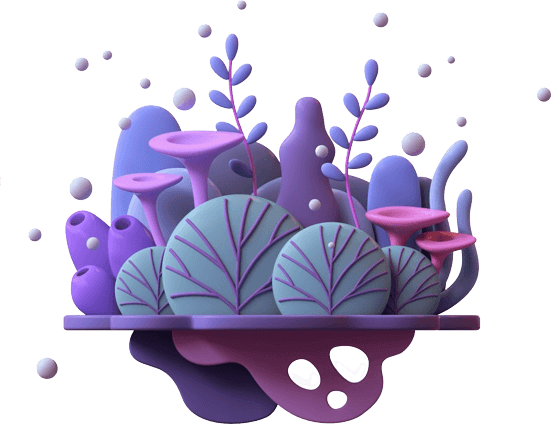
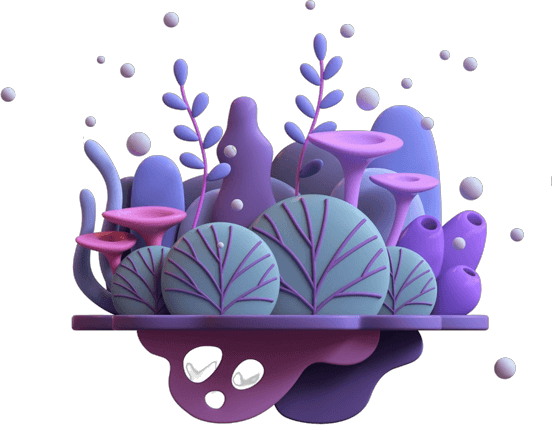
update image home

diff --git a/src/pages/Login.jsx b/src/pages/Login.jsx
@@ -1,14 +1,77 @@
 /* eslint-disable semi */
 /* eslint-disable prettier/prettier */
 import React from 'react';
-import {Text, View } from 'react-native';
+import {View, StyleSheet, SafeAreaView, Text, TouchableOpacity, Image } from 'react-native';
+import LinearGradient from 'react-native-linear-gradient';
 
-const Login = () => {
+const Home = () => {
   return (
-    <View>
-      <Text>Hello Login</Text>
-    </View>
+        <LinearGradient
+         colors={['#285ca3', '#2d5fb0', '#4e69d0' , '#2b5eab']}
+         style={styles.container}
+         start={{ x: 0, y: 0 }}
+         end={{ x: 1, y: 1 }}
+         >
+          <Image source={image.img} style={styles.imgHome}/>
+          <Text style={styles.textHeader}>Plantly</Text>
+          <Text>Can't seem to keep a plant alive?</Text>
+          <Text>Let us help you change that</Text>
+          <LinearGradient 
+          start={{ x: 0, y: 0 }}
+          end={{x: 1, y: 1 }}
+          colors={['#283854', '#2c3f69', '#344a84', '#335498']}
+          style={styles.buttoLogin}>
+            <TouchableOpacity>
+              <Text>LOGIN</Text>
+            </TouchableOpacity>
+          </LinearGradient>
+          <TouchableOpacity style={styles.buttonRegister}>
+            <Text>SIGN UP</Text>
+          </TouchableOpacity>
+        </LinearGradient>
+
   );
 }
-
-export default Login;
+const image = {
+  img : require('../assets/header-home.png')
+}
+const styles = StyleSheet.create({
+  container: {
+    flex: 1,
+    alignItems: 'center',
+  },
+  buttoLogin :{
+    paddingHorizontal: 120,
+    paddingVertical: 15,
+    borderRadius: 25,
+    marginBottom: 10,
+    marginTop:50,
+  },
+  buttonRegister :{
+    paddingHorizontal: 114,
+    paddingVertical: 10,
+    borderRadius: 25,
+    borderWidth: 3,
+    borderColor: "#31477b",  
+  },
+  linearGradient: {
+    width:'100%',
+    height:'100%',
+    justifyContent:'center',
+    alignContent:'center',
+    paddingLeft:50,
+    paddingRight:50,
+  },
+  textHeader:{
+    fontSize:50,
+    marginBottom: 10,
+    textAlign:'center',
+  },
+  imgHome:{
+    width: 550,
+    height:300,
+    resizeMode: 'contain',
+    marginBottom:25
+  }
+});
+export default Home;

diff --git a/src/pages/Home.jsx b/src/pages/Home.jsx
@@ -33,7 +33,7 @@ const Home = () => {
   );
 }
 const image = {
-  img : require('../assets/header.png')
+  img : require('../assets/header-home.png')
 }
 const styles = StyleSheet.create({
   container: {
@@ -48,8 +48,8 @@ const styles = StyleSheet.create({
     marginTop:50,
   },
   buttonRegister :{
-    paddingHorizontal: 111,
-    paddingVertical: 15,
+    paddingHorizontal: 114,
+    paddingVertical: 10,
     borderRadius: 25,
     borderWidth: 3,
     borderColor: "#31477b",  
@@ -68,9 +68,10 @@ const styles = StyleSheet.create({
     textAlign:'center',
   },
   imgHome:{
-    width: 590,
-    height:320,
-    resizeMode: 'contain'
+    width: 550,
+    height:300,
+    resizeMode: 'contain',
+    marginBottom:25
   }
 });
 export default Home;

diff --git a/src/routers/index.jsx b/src/routers/index.jsx
@@ -11,8 +11,10 @@ const Router = () => {
     return (
         <>
             <Stack.Navigator>
-                <Stack.Screen name="Home" component={Home}/>
                 <Stack.Screen name="Login" component={Login}/>
+                <Stack.Screen name="Home" component={Home}  options={{
+                        headerShown: false,
+                    }}/>
             </Stack.Navigator>
         </>
     );
